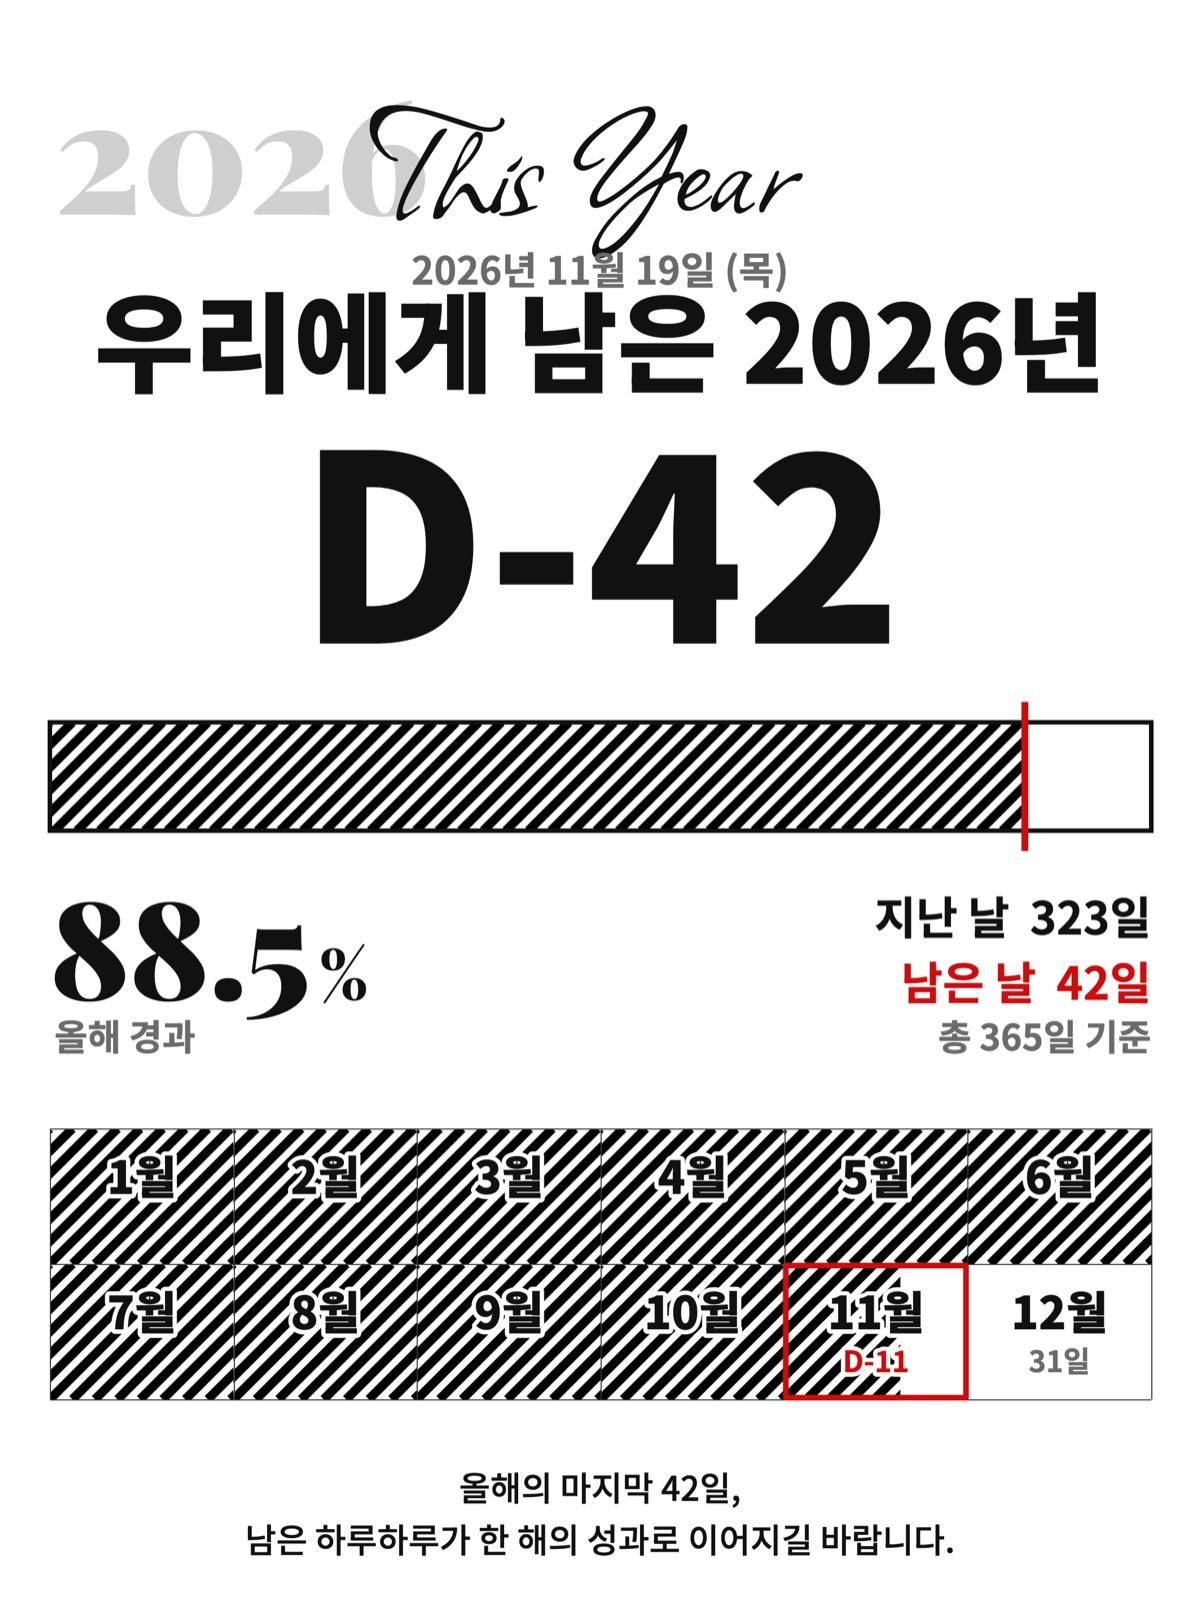
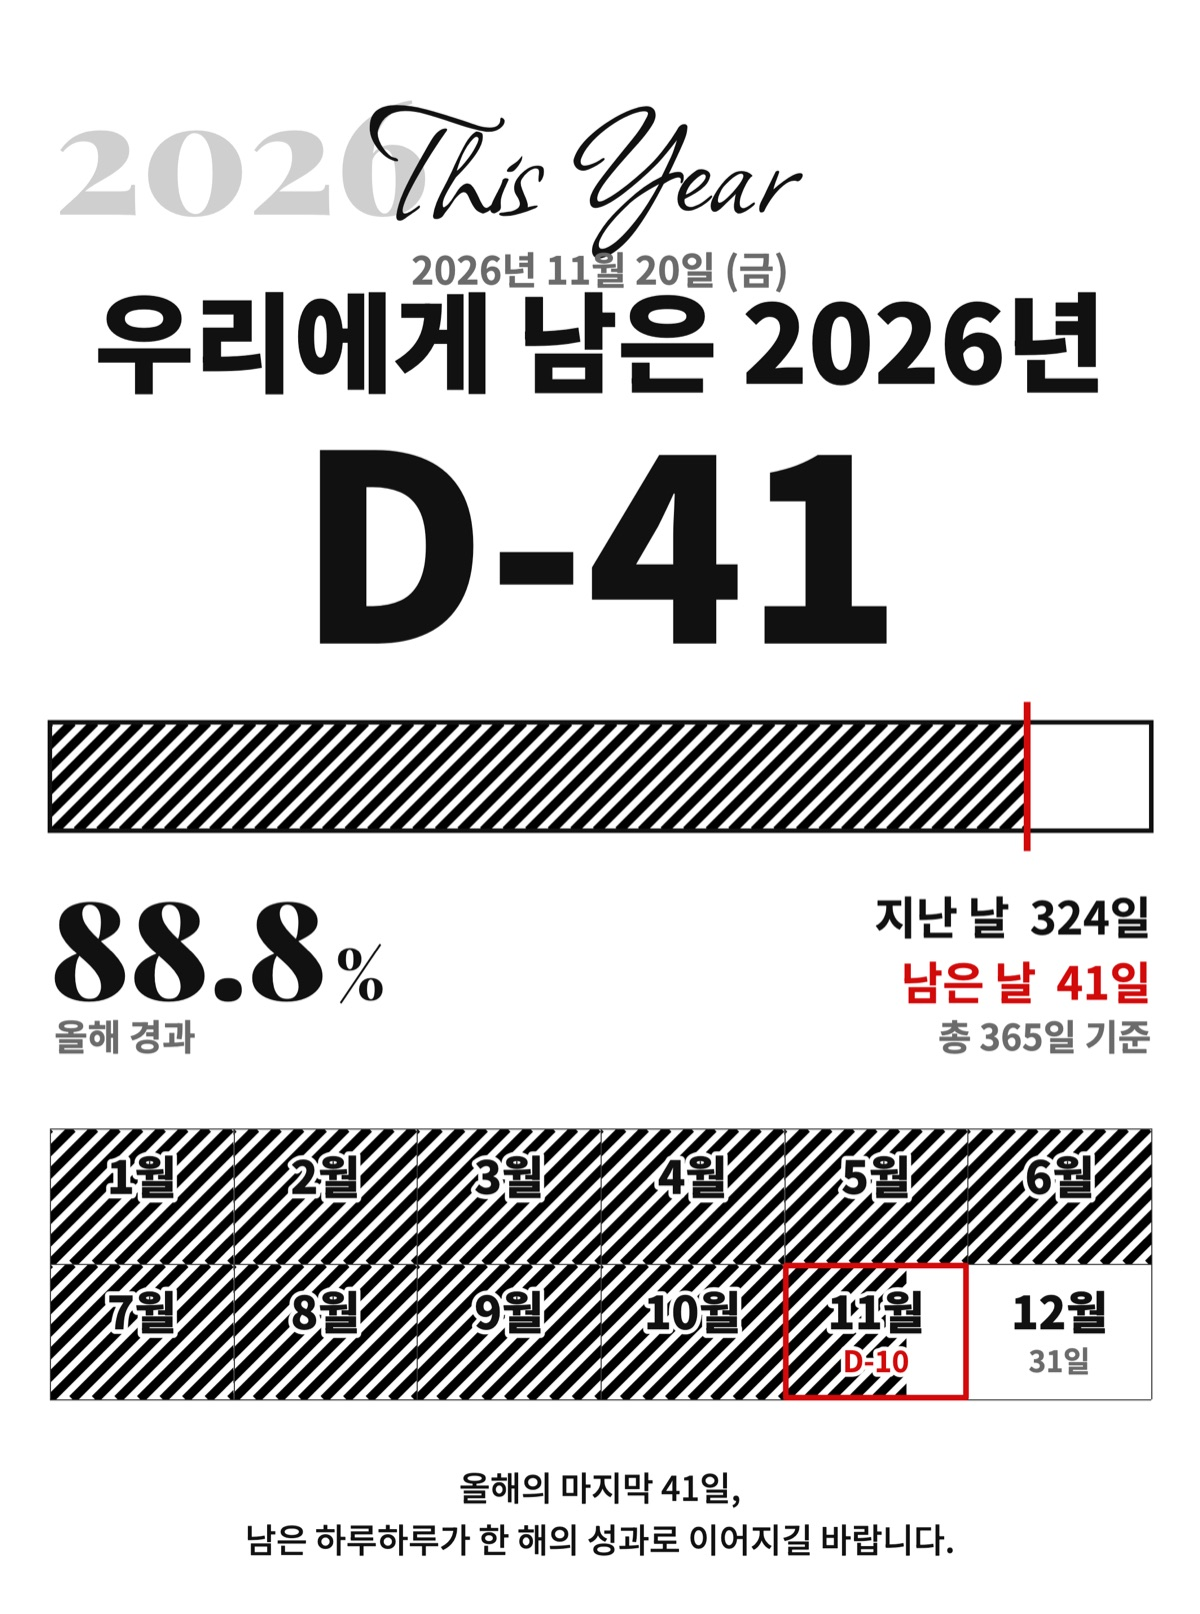
공부방 아침 11-20 (5장)

diff --git a/insight/20261120/index.html b/insight/20261120/index.html
@@ -1,0 +1,28 @@
+<!doctype html>
+<html lang="ko"><head><meta charset="utf-8">
+<meta name="viewport" content="width=device-width,initial-scale=1">
+<meta name="robots" content="noindex,nofollow">
+<title>보험인사이트 11/20(금)</title>
+<meta property="og:title" content="보험인사이트 11/20(금)">
+<meta property="og:description" content="MK 보험인사이트 · 오늘 바로 쓰는 상담 대화·퀴즈·고객 전달용 카드">
+<meta property="og:image" content="https://jungmookyung.github.io/bohum-hanip/insight/20261120/1.jpg">
+<meta property="og:url" content="https://jungmookyung.github.io/bohum-hanip/insight/20261120/">
+<meta property="og:type" content="article">
+<style>
+:root{--bg:#eef1f6;--fg:#0E1F54}
+@media (prefers-color-scheme:dark){:root{--bg:#0b1020;--fg:#dfe6ff}}
+body{margin:0;background:var(--bg);color:var(--fg);font-family:'Pretendard','Noto Sans KR',sans-serif}
+main{max-width:720px;margin:0 auto;padding:12px 12px 40px}
+h1{font-size:18px;margin:6px 4px 12px}
+img{display:block;width:100%;height:auto;margin:0 0 12px;border-radius:10px;box-shadow:0 1px 4px rgba(0,0,0,.12)}
+p{font-size:13px;opacity:.7;margin:4px}
+</style></head>
+<body><main>
+<h1>보험인사이트 11/20(금)</h1>
+<img src="1.jpg" alt="1장" loading="eager">
+<img src="2.jpg" alt="2장" loading="lazy">
+<img src="3.jpg" alt="3장" loading="lazy">
+<img src="4.jpg" alt="4장" loading="lazy">
+<img src="5.jpg" alt="5장" loading="lazy">
+<p>사진을 길게 누르면 저장할 수 있어요.</p>
+</main></body></html>
